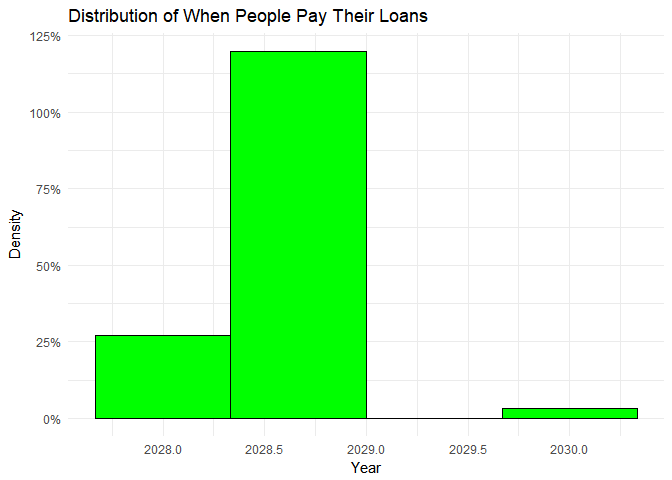
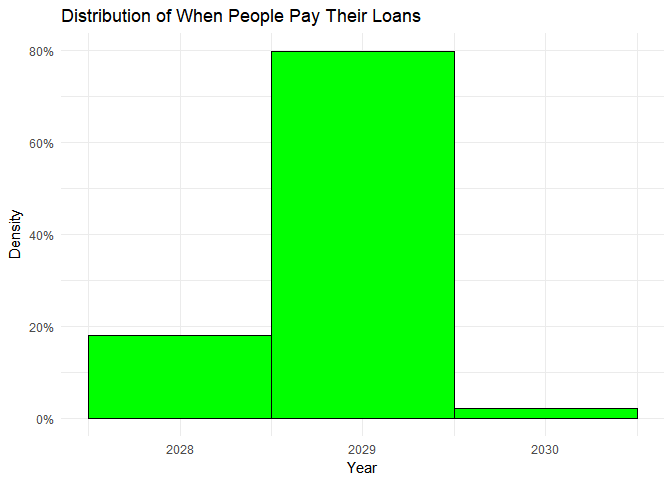
3 bins

diff --git a/students/gamarnik_dan/hw4 simulation/simulation.md b/students/gamarnik_dan/hw4 simulation/simulation.md
@@ -139,7 +139,7 @@ Approximately 18.00% of people could pay off their debts by 2028.
     # Graphing
 
     ggplot(debt_95k, aes(year, ..density..)) +
-    geom_histogram(bins = 4.7, fill = "green", color = "black") +
+    geom_histogram(bins = 3, fill = "green", color = "black") +
     scale_y_continuous(label = scales::percent) +
     labs(title = "Distribution of When People Pay Their Loans", x = "Year", y = "Density") +
     theme_minimal()  
